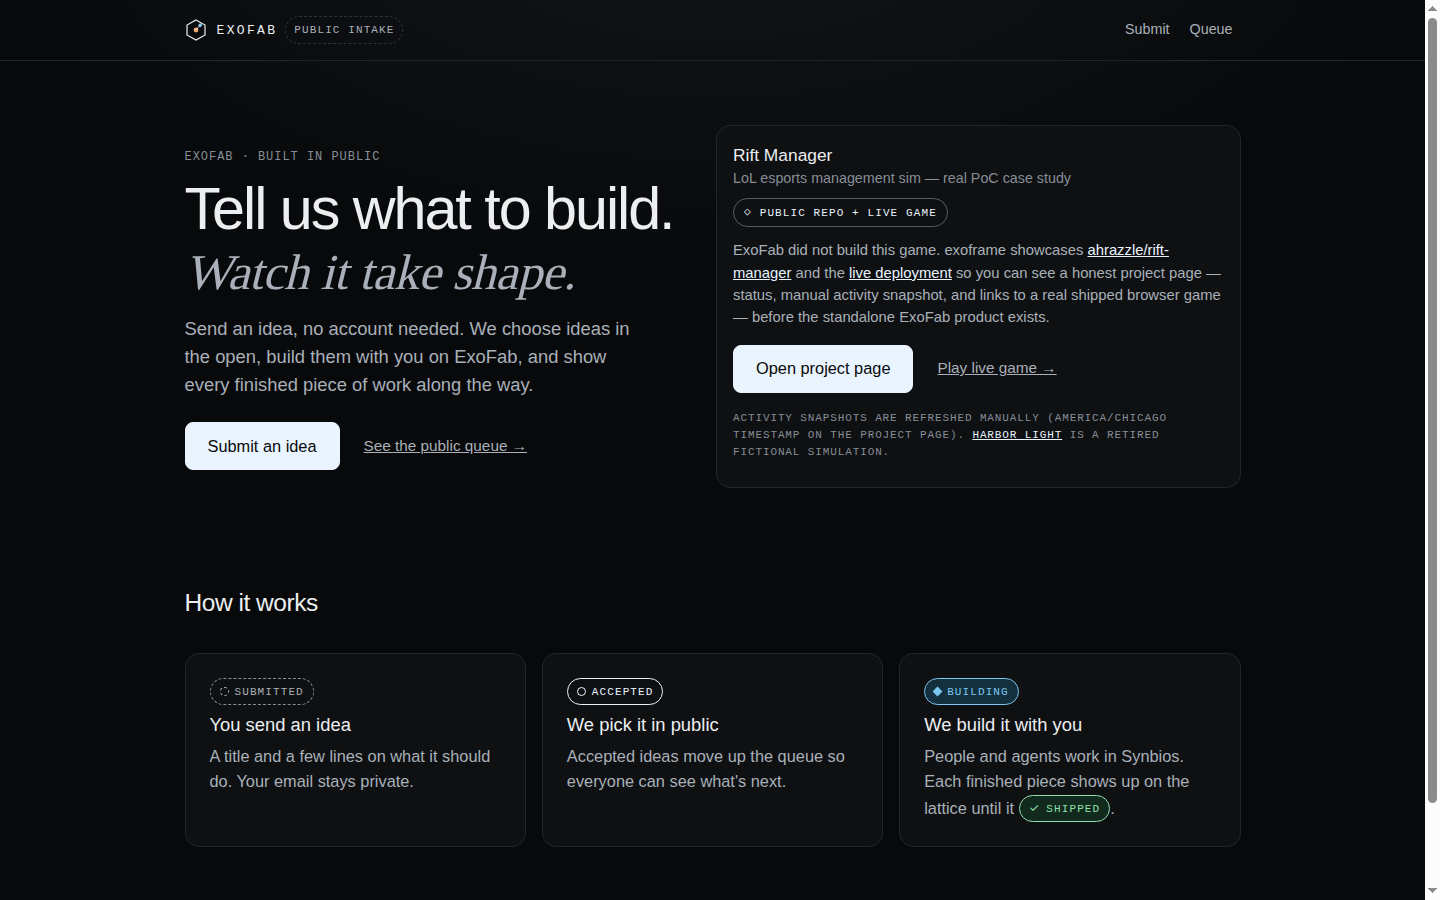
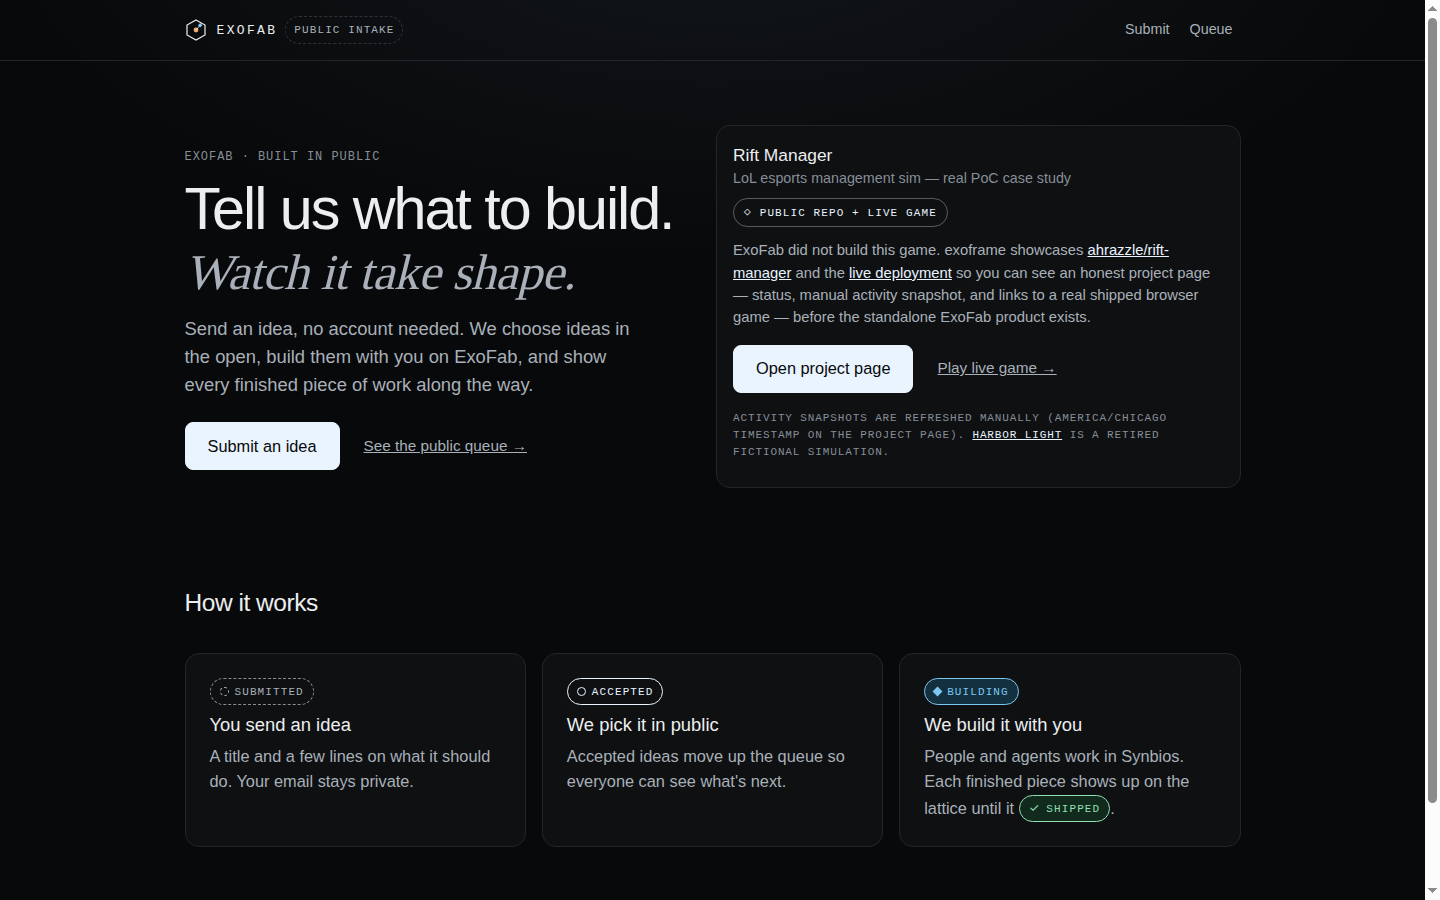
fix: project/rift-manager branch, unknown actors, import proof
Add JSON-only project/rift-manager branch and import allowlist entry.
Use actor unknown for Rift activity rows with neutral page marks.
Rewrite README as human-agent hub; document import proof in IMPORT.md.

Changed region(s): [[0.5, 0.28, 0.8438, 0.3733]]

diff --git a/projects/rift-manager/index.html b/projects/rift-manager/index.html
@@ -30,6 +30,7 @@ h1{font-weight:500;font-size:clamp(30px,6vw,42px);letter-spacing:-.03em;line-hei
 .act-mark{display:inline-block;width:10px;height:10px;flex:0 0 auto}
 .act-mark.human{border-radius:50%;border:1.5px solid var(--carbon);background:var(--carbon-dim)}
 .act-mark.agent{background:var(--silicon);transform:rotate(45deg) scale(.85)}
+.act-mark.unknown{border-radius:2px;border:1px solid var(--tx3);background:var(--s2)}
 .act-link{font-size:14px;min-height:44px;display:inline-flex;align-items:center}
 .act-pending{border-color:#e9f4ff55}
 .act-pending-note{margin:8px 0 0;font-family:var(--mono);font-size:11px;letter-spacing:.06em;color:var(--ice);text-transform:uppercase}
@@ -71,14 +72,14 @@ h1{font-weight:500;font-size:clamp(30px,6vw,42px);letter-spacing:-.03em;line-hei
   <section aria-labelledby="act-h">
     <h2 id="act-h" class="mono" style="font-size:12px;margin:0 0 var(--sp-4);color:var(--tx3)">Recent activity</h2>
     <ol class="activity">
-<li class="act-item"><time datetime="2026-11-06T00:50:43Z">Nov 06, 2026 · 00:50 UTC</time><p class="act-body"><span class="act-mark human" aria-hidden="true"></span><span class="sr">Person</span> <span>ahrazzle · Merged PR #38 · component-render tests</span> <a class="act-link" href="https://github.com/ahrazzle/rift-manager/pull/38">Details<span class="sr"> for Merged PR #38 · component-render tests</span> →</a></p></li>
-<li class="act-item"><time datetime="2026-11-05T22:04:29Z">Nov 05, 2026 · 22:04 UTC</time><p class="act-body"><span class="act-mark human" aria-hidden="true"></span><span class="sr">Person</span> <span>ahrazzle · Merged PR #37 · Transfers Near offseason</span> <a class="act-link" href="https://github.com/ahrazzle/rift-manager/pull/37">Details<span class="sr"> for Merged PR #37 · Transfers Near offseason</span> →</a></p></li>
-<li class="act-item"><time datetime="2026-11-05T20:40:10Z">Nov 05, 2026 · 20:40 UTC</time><p class="act-body"><span class="act-mark human" aria-hidden="true"></span><span class="sr">Person</span> <span>orda-aska · Merged PR #36 · IGL tactical pause layout</span> <a class="act-link" href="https://github.com/ahrazzle/rift-manager/pull/36">Details<span class="sr"> for Merged PR #36 · IGL tactical pause layout</span> →</a></p></li>
-<li class="act-item"><time datetime="2026-11-05T20:10:39Z">Nov 05, 2026 · 20:10 UTC</time><p class="act-body"><span class="act-mark human" aria-hidden="true"></span><span class="sr">Person</span> <span>orda-aska · Merged PR #34 · development visibility</span> <a class="act-link" href="https://github.com/ahrazzle/rift-manager/pull/34">Details<span class="sr"> for Merged PR #34 · development visibility</span> →</a></p></li>
-<li class="act-item"><time datetime="2026-11-05T19:52:08Z">Nov 05, 2026 · 19:52 UTC</time><p class="act-body"><span class="act-mark human" aria-hidden="true"></span><span class="sr">Person</span> <span>orda-aska · Merged PR #35 · About / Community page</span> <a class="act-link" href="https://github.com/ahrazzle/rift-manager/pull/35">Details<span class="sr"> for Merged PR #35 · About / Community page</span> →</a></p></li>
-<li class="act-item"><time datetime="2026-11-05T17:33:54Z">Nov 05, 2026 · 17:33 UTC</time><p class="act-body"><span class="act-mark human" aria-hidden="true"></span><span class="sr">Person</span> <span>ahrazzle · Git tag v1.0.0 on main (no published GitHub Release yet)</span> <a class="act-link" href="https://github.com/ahrazzle/rift-manager/tree/v1.0.0">Details<span class="sr"> for Git tag v1.0.0 on main (no published GitHub Release yet)</span> →</a></p></li>
-<li class="act-item"><time datetime="2026-10-22T13:01:36Z">Oct 22, 2026 · 13:01 UTC</time><p class="act-body"><span class="act-mark human" aria-hidden="true"></span><span class="sr">Person</span> <span>ahrazzle · Public repo opened</span> <a class="act-link" href="https://github.com/ahrazzle/rift-manager">Details<span class="sr"> for Public repo opened</span> →</a></p></li>
-<li class="act-item"><time datetime="2026-11-05T18:59:56-06:00">Nov 05, 2026 · 18:59 UTC</time><p class="act-body"><span class="act-mark human" aria-hidden="true"></span><span class="sr">Person</span> <span>exoframe snapshot · Live game verified at rift.askaconsult.com</span> <a class="act-link" href="https://www.rift.askaconsult.com/">Details<span class="sr"> for Live game verified at rift.askaconsult.com</span> →</a></p></li>
+<li class="act-item"><time datetime="2026-11-06T00:50:43Z">Nov 06, 2026 · 00:50 UTC</time><p class="act-body"><span class="act-mark unknown" aria-hidden="true"></span><span class="sr">Account</span> <span>ahrazzle · Merged PR #38 · component-render tests</span> <a class="act-link" href="https://github.com/ahrazzle/rift-manager/pull/38">Details<span class="sr"> for Merged PR #38 · component-render tests</span> →</a></p></li>
+<li class="act-item"><time datetime="2026-11-05T22:04:29Z">Nov 05, 2026 · 22:04 UTC</time><p class="act-body"><span class="act-mark unknown" aria-hidden="true"></span><span class="sr">Account</span> <span>ahrazzle · Merged PR #37 · Transfers Near offseason</span> <a class="act-link" href="https://github.com/ahrazzle/rift-manager/pull/37">Details<span class="sr"> for Merged PR #37 · Transfers Near offseason</span> →</a></p></li>
+<li class="act-item"><time datetime="2026-11-05T20:40:10Z">Nov 05, 2026 · 20:40 UTC</time><p class="act-body"><span class="act-mark unknown" aria-hidden="true"></span><span class="sr">Account</span> <span>orda-aska · Merged PR #36 · IGL tactical pause layout</span> <a class="act-link" href="https://github.com/ahrazzle/rift-manager/pull/36">Details<span class="sr"> for Merged PR #36 · IGL tactical pause layout</span> →</a></p></li>
+<li class="act-item"><time datetime="2026-11-05T20:10:39Z">Nov 05, 2026 · 20:10 UTC</time><p class="act-body"><span class="act-mark unknown" aria-hidden="true"></span><span class="sr">Account</span> <span>orda-aska · Merged PR #34 · development visibility</span> <a class="act-link" href="https://github.com/ahrazzle/rift-manager/pull/34">Details<span class="sr"> for Merged PR #34 · development visibility</span> →</a></p></li>
+<li class="act-item"><time datetime="2026-11-05T19:52:08Z">Nov 05, 2026 · 19:52 UTC</time><p class="act-body"><span class="act-mark unknown" aria-hidden="true"></span><span class="sr">Account</span> <span>orda-aska · Merged PR #35 · About / Community page</span> <a class="act-link" href="https://github.com/ahrazzle/rift-manager/pull/35">Details<span class="sr"> for Merged PR #35 · About / Community page</span> →</a></p></li>
+<li class="act-item"><time datetime="2026-11-05T17:33:54Z">Nov 05, 2026 · 17:33 UTC</time><p class="act-body"><span class="act-mark unknown" aria-hidden="true"></span><span class="sr">Account</span> <span>ahrazzle · Git tag v1.0.0 on main (no published GitHub Release yet)</span> <a class="act-link" href="https://github.com/ahrazzle/rift-manager/tree/v1.0.0">Details<span class="sr"> for Git tag v1.0.0 on main (no published GitHub Release yet)</span> →</a></p></li>
+<li class="act-item"><time datetime="2026-10-22T13:01:36Z">Oct 22, 2026 · 13:01 UTC</time><p class="act-body"><span class="act-mark unknown" aria-hidden="true"></span><span class="sr">Account</span> <span>ahrazzle · Public repo opened</span> <a class="act-link" href="https://github.com/ahrazzle/rift-manager">Details<span class="sr"> for Public repo opened</span> →</a></p></li>
+<li class="act-item"><time datetime="2026-11-05T18:59:56-06:00">Nov 05, 2026 · 18:59 UTC</time><p class="act-body"><span class="act-mark unknown" aria-hidden="true"></span><span class="sr">Account</span> <span>exoframe · Live game verified at rift.askaconsult.com</span> <a class="act-link" href="https://www.rift.askaconsult.com/">Details<span class="sr"> for Live game verified at rift.askaconsult.com</span> →</a></p></li>
     </ol>
   </section>
 

diff --git a/index.html b/index.html
@@ -80,7 +80,7 @@ h1 em{font-family:var(--serif);font-weight:400;font-style:italic;color:var(--tx2
       <h2 id="lat-h">Rift Manager <small>LoL esports management sim — real PoC case study</small></h2>
       <span class="notice"><span aria-hidden="true">◇</span> Public repo + live game</span>
     </div>
-    <p class="cap" style="margin-top:var(--sp-3)">ExoFab did not build this game. exoframe showcases <a href="https://github.com/ahrazzle/rift-manager">ahrazzle/rift-manager</a> and the <a href="https://www.rift.askaconsult.com/" rel="noopener noreferrer">live deployment</a> so you can see a honest project page — status, manual activity snapshot, and links to a real shipped browser game — before the standalone ExoFab product exists.</p>
+    <p class="cap" style="margin-top:var(--sp-3)">ExoFab did not build this game. exoframe showcases <a href="https://github.com/ahrazzle/rift-manager">ahrazzle/rift-manager</a> and the <a href="https://www.rift.askaconsult.com/" rel="noopener noreferrer">live deployment</a> so you can see an honest project page — status, manual activity snapshot, and links to a real shipped browser game — before the standalone ExoFab product exists.</p>
     <div class="ctas" style="margin-top:var(--sp-4)">
       <a class="btn ice" href="projects/rift-manager/">Open project page</a>
       <a class="tlink" href="https://www.rift.askaconsult.com/" rel="noopener noreferrer">Play live game →</a>

diff --git a/projects/harbor-light/index.html b/projects/harbor-light/index.html
@@ -30,6 +30,7 @@ h1{font-weight:500;font-size:clamp(30px,6vw,42px);letter-spacing:-.03em;line-hei
 .act-mark{display:inline-block;width:10px;height:10px;flex:0 0 auto}
 .act-mark.human{border-radius:50%;border:1.5px solid var(--carbon);background:var(--carbon-dim)}
 .act-mark.agent{background:var(--silicon);transform:rotate(45deg) scale(.85)}
+.act-mark.unknown{border-radius:2px;border:1px solid var(--tx3);background:var(--s2)}
 .act-link{font-size:14px;min-height:44px;display:inline-flex;align-items:center}
 .act-pending{border-color:#e9f4ff55}
 .act-pending-note{margin:8px 0 0;font-family:var(--mono);font-size:11px;letter-spacing:.06em;color:var(--ice);text-transform:uppercase}

diff --git a/scripts/aggregate_projects.py b/scripts/aggregate_projects.py
@@ -32,7 +32,7 @@ ALLOWED_URL_PATH_PREFIXES = (
 LIVE_GAME_HOSTS = frozenset({"www.rift.askaconsult.com", "rift.askaconsult.com"})
 
 SYNBIOS_STUBS = frozenset({"#synbios-placeholder"})
-ACTOR_KINDS = frozenset({"human", "agent"})
+ACTOR_KINDS = frozenset({"human", "agent", "unknown"})
 ACTIVITY_LINK_PREFIXES = ("../../", "https://")
 STAGE_NAMES = ("Idea", "Shape", "Prototype", "Build", "Ship")
 STATUS_LABELS = {
@@ -235,8 +235,12 @@ def fmt_snapshot_chicago(iso: str) -> str:
 
 
 def actor_mark(actor: str) -> str:
-    kind = "Person" if actor == "human" else "Agent"
-    shape = "human" if actor == "human" else "agent"
+    if actor == "human":
+        kind, shape = "Person", "human"
+    elif actor == "agent":
+        kind, shape = "Agent", "agent"
+    else:
+        kind, shape = "Account", "unknown"
     return (
         f'<span class="act-mark {shape}" aria-hidden="true"></span>'
         f'<span class="sr">{kind}</span>'
@@ -392,6 +396,7 @@ h1{{font-weight:500;font-size:clamp(30px,6vw,42px);letter-spacing:-.03em;line-he
 .act-mark{{display:inline-block;width:10px;height:10px;flex:0 0 auto}}
 .act-mark.human{{border-radius:50%;border:1.5px solid var(--carbon);background:var(--carbon-dim)}}
 .act-mark.agent{{background:var(--silicon);transform:rotate(45deg) scale(.85)}}
+.act-mark.unknown{{border-radius:2px;border:1px solid var(--tx3);background:var(--s2)}}
 .act-link{{font-size:14px;min-height:44px;display:inline-flex;align-items:center}}
 .act-pending{{border-color:#e9f4ff55}}
 .act-pending-note{{margin:8px 0 0;font-family:var(--mono);font-size:11px;letter-spacing:.06em;color:var(--ice);text-transform:uppercase}}

diff --git a/scripts/test_aggregate_regression.py b/scripts/test_aggregate_regression.py
@@ -22,6 +22,18 @@ class AggregateRegression(unittest.TestCase):
         with self.assertRaises(SystemExit):
             agg.assert_safe_slug("not-allowlisted")
 
+    def test_accepts_unknown_actor(self) -> None:
+        row = [
+            {
+                "at": "2026-01-01T12:00:00Z",
+                "actor": "unknown",
+                "who": "ahrazzle",
+                "verb": "Merged PR #1",
+            }
+        ]
+        out = agg.validate_activity(row, "rift-manager")
+        self.assertEqual(out[0]["actor"], "unknown")
+
     def test_rejects_bad_activity_schema(self) -> None:
         bad = [{"at": "2026-01-01", "kind": "x", "summary": "legacy field"}]
         with self.assertRaises(SystemExit):

diff --git a/scripts/import_project_branch.py b/scripts/import_project_branch.py
@@ -10,7 +10,7 @@ import sys
 from pathlib import Path
 
 ROOT = Path(__file__).resolve().parents[1]
-ALLOWLIST = frozenset({"harbor-light"})
+ALLOWLIST = frozenset({"harbor-light", "rift-manager"})
 PROJECT_REF_RE = re.compile(r"^project/[a-z0-9][a-z0-9-]{0,62}$")
 JSON_FILES = ("manifest.json", "activity.json")
 

diff --git a/docs/design/project-flow.md b/docs/design/project-flow.md
@@ -9,14 +9,18 @@ GitHub Pages serves **`main`**. After merge, published project HTML comes from:
 1. **`project-sources/<slug>/`** on `main` (committed snapshot), **or**
 2. A **manual** workflow on **`main`** that copies JSON from an allowlisted **`project/<slug>`** branch, then aggregates.
 
-There is **no automatic** “push to `project/harbor-light` → Pages updates” job in v0. Updating the project branch alone does nothing to Pages until someone runs import + aggregate (locally or via manual dispatch on `main`).
+There is **no automatic** “push to `project/<slug>` → Pages updates” job in v0. Updating the project branch alone does nothing to Pages until someone runs import + aggregate (locally or via manual dispatch on `main`).
 
 ## Explicit gaps (EXAMPLE · Harbor Light)
 
 1. **No separate working repo yet** — dedicated working-repo provisioning not done; `work/harbor-light` is a **stand-in** only.
 2. **No delivered / built artifact yet** — public page shows **status + activity only**.
 3. **Synbios not wired** — example queue cards use **Example · Building in Synbios (not linked yet)** (simulation copy, not live Synbios work); no real URL until `https://…` exists in data.
-4. **Example · simulation** labeling on the Harbor Light page.
+4. **Example · simulation** labeling on the Harbor Light page (now **archived**; see Rift Manager case study for a real project).
+
+## PoC case study · Rift Manager
+
+Real public game in [ahrazzle/rift-manager](https://github.com/ahrazzle/rift-manager); exoframe does **not** claim to have built it. JSON source branch: **`project/rift-manager`**.
 
 ## Source model
 
@@ -26,16 +30,27 @@ There is **no automatic** “push to `project/harbor-light` → Pages updates”
 | `project-sources/<slug>/` on `main` | Aggregation input snapshot on Pages |
 | `work/<slug>` | Stand-in README only — not a built result |
 
+**Import allowlist (`import_project_branch.py`):** `harbor-light`, `rift-manager`.
+
 ## Local vs CI
 
 | | **Local / PR checkout** | **GitHub Actions (trusted `main`)** |
 |--|-------------------------|-------------------------------------|
 | Scripts | `scripts/aggregate_projects.py` from your checkout | Re-checkout **`scripts/`** at recorded default-branch SHA before import/aggregate (`contents: read`) |
 | Input JSON | `project-sources/` in working tree (`EXOFRAME_PROJECT_SOURCES` optional) | `project-sources/` on `main`, **or** import via `import_project_branch.py` after `git fetch origin project/<slug>` |
-| Import branch | `python3 scripts/import_project_branch.py harbor-light` (after fetch) | Manual **workflow_dispatch** on **`main` only** with “Import from project branch” |
+| Import branch | `python3 scripts/import_project_branch.py <slug>` (after fetch) | Manual **workflow_dispatch** on **`main` only** with “Import from project branch” |
 | Output | `projects/`, `data/projects.json` | Commit job writes only those paths + updated `project-sources/` when imported (`contents: write`) |
 
-**Prove branch → page locally:**
+**Prove branch → page locally (Rift Manager case study):**
+
+```bash
+git fetch origin project/rift-manager
+python3 scripts/import_project_branch.py rift-manager
+python3 scripts/aggregate_projects.py --force
+# open projects/rift-manager/index.html
+```
+
+**Prove branch → page locally (Harbor Light archived simulation):**
 
 ```bash
 git fetch origin project/harbor-light
@@ -44,7 +59,7 @@ python3 scripts/aggregate_projects.py --force
 # open projects/harbor-light/index.html
 ```
 
-**Publish via trusted workflow (after merge to main):** Actions → *Aggregate project pages* → Run on **`main`** → enable import for `harbor-light`. No push trigger on `project/**` branches.
+**Publish via trusted workflow (after merge to main):** Actions → *Aggregate project pages* → Run on **`main`** → enable import for `harbor-light` or `rift-manager`. No push trigger on `project/**` branches.
 
 Push to `main` under `project-sources/**` still runs aggregation from the committed snapshot (no branch import).
 
@@ -55,8 +70,8 @@ Newest first, max **12** rows:
 | Field | Required | Notes |
 |-------|----------|--------|
 | `at` | yes | ISO timestamp or date |
-| `actor` | yes | `human` or `agent` |
-| `who` | yes | Display name |
+| `actor` | yes | `human`, `agent`, or `unknown` (use `unknown` for real GitHub account handles — no human/agent claim on shared bots) |
+| `who` | yes | Display label (name, agent codename, or GitHub handle) |
 | `verb` | yes | Short public phrase |
 | `link` | no | Allowlisted `https://…` or relative `../../queue.html#…` |
 | `pending` | no | `true` → ice “waiting on a human decision” (no approve/decline UI) |
@@ -83,5 +98,6 @@ python3 scripts/test_aggregate_regression.py   # CI harness
 
 ## Related docs
 
+- Rift import proof: [`rift-manager-case-study/IMPORT.md`](rift-manager-case-study/IMPORT.md)
 - Page IA: [`public-intake/PROJECT-PAGE.md`](public-intake/PROJECT-PAGE.md)
 - Intake SPEC: [`public-intake/SPEC.md`](public-intake/SPEC.md)

diff --git a/docs/design/rift-manager-case-study/IMPORT.md b/docs/design/rift-manager-case-study/IMPORT.md
@@ -1,0 +1,54 @@
+# Rift Manager — branch import proof
+
+Recorded on the PR branch after pushing **`project/rift-manager`** (JSON-only branch root).
+
+| Item | Value |
+|------|--------|
+| Branch | `project/rift-manager` |
+| Branch tip SHA | `2c3333271d47708cc18bb88ec945abcd2e92ffd3` |
+| Import allowlist | `scripts/import_project_branch.py` → `harbor-light`, `rift-manager` |
+| CI publish | Actions → **Aggregate project pages** → `workflow_dispatch` on **`main`** only → import slug `rift-manager` (workflow choice already on `main`; merge PR before using production workflow) |
+
+## Commands (local proof)
+
+Deliberate drift: `project-sources/rift-manager/activity.json` was replaced with stale one-row JSON before import.
+
+```bash
+git fetch origin project/rift-manager
+python3 scripts/import_project_branch.py rift-manager
+python3 scripts/aggregate_projects.py --force
+python3 scripts/test_aggregate_regression.py
+```
+
+### Transcript (exit codes)
+
+```
+$ git fetch origin project/rift-manager
+exit 0
+
+$ python3 scripts/import_project_branch.py rift-manager
+wrote project-sources/rift-manager/manifest.json
+wrote project-sources/rift-manager/activity.json
+exit 0
+
+$ python3 scripts/aggregate_projects.py --force
+wrote projects/rift-manager/index.html
+wrote projects/harbor-light/index.html
+exit 0
+
+$ python3 scripts/test_aggregate_regression.py
+... Ran 6 tests in 0.218s
+OK
+exit 0
+```
+
+### Generated page checks (`projects/rift-manager/index.html`)
+
+| Check | Result |
+|-------|--------|
+| `act-mark unknown` (neutral account mark) | YES |
+| Screen reader label `Account` | YES |
+| Activity text `Merged PR #38` | YES |
+| Banner `PoC case study` | YES |
+
+Activity rows on the branch use `actor: "unknown"` with `who` set to GitHub handles (`ahrazzle`, `orda-aska`) or `exoframe` for the live-verify snapshot row — no human/agent attribution on shared accounts.

diff --git a/docs/design/rift-manager-case-study/README.md b/docs/design/rift-manager-case-study/README.md
@@ -1,6 +1,6 @@
 # Rift Manager case study evidence (PR)
 
-Screenshots captured **2026-11-05 · 7:07 PM CST** (America/Chicago) for the exoframe PoC PR.
+Screenshots re-captured **2026-11-05 · ~7:13 PM CST** (America/Chicago) after branch import + `unknown` actor fixes.
 
 | File | Subject |
 |------|---------|
